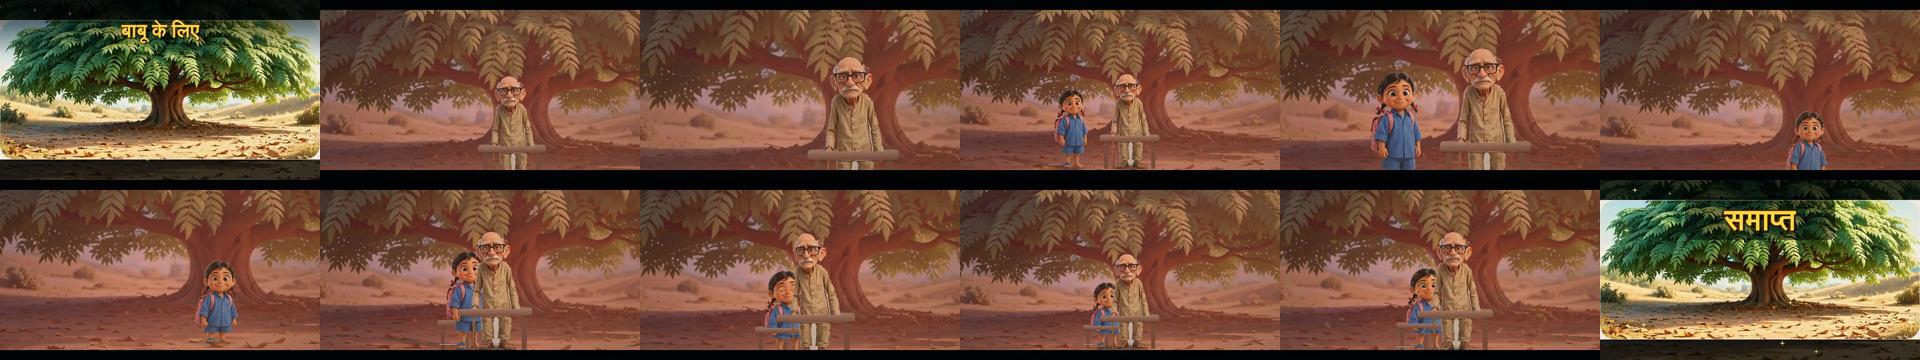
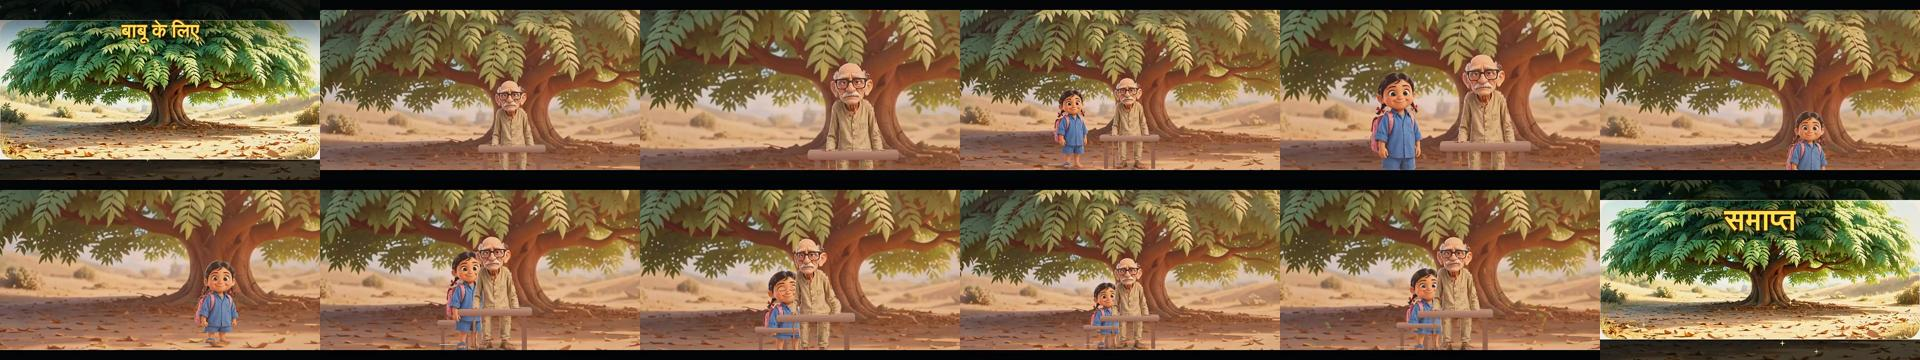
Build CI auto-triggers on this branch; fix look-change pass order so clothes change still fires G_SCREEN
ScriptParser: lookChangesFromActions runs BEFORE costumesFromActions in parseText, so the make-up entries carry
the character's original look and the later clothes-change entry still differs from the before-look. Fixes the
AppTest.v37ActivitiesFromTheWords failure.

LookDesigner: Ravana loses the 20-arm boost (keeps 10 heads); the extra arms were squeezing the row-of-heads
width in Doll3D. Fixes godsDemonsAndVanaras.

.github/workflows/build-apk.yml: push to ccr-a5fc4eef-d2p2nm also triggers the APK build, so every commit builds
automatically without a manual dispatch.

Claude-Session: https://claude.ai/code/session_01GbJz86dkxycvAjUzZun8bU

diff --git a/app/src/main/java/com/tarun/kahani/core/ScriptParser.java b/app/src/main/java/com/tarun/kahani/core/ScriptParser.java
@@ -287,6 +287,7 @@ public final class ScriptParser {
         LookDesigner.designAll(story);
         linkMounts(story);
         aidsFromActions(story);
+        lookChangesFromActions(story);
         costumesFromActions(story);
         return story;
     }
@@ -353,38 +354,6 @@ public final class ScriptParser {
                 if (nl.outfit == cur.outfit && nl.primary == cur.primary && nl.secondary == cur.secondary && nl.glasses == cur.glasses && nl.injury == cur.injury) continue;
                 Story.Costume k = new Story.Costume();
                 k.scene = sc.number; k.beat = bi; k.text = sent.trim(); k.look = nl;
-                c.costumes.add(k);
-            }
-        }
-        // v47: a second pass for look changes that are not clothes — make-up (bindi, lipstick, kajal, sindoor,
-        // mehndi, powder), a cap or a hat, a hairstyle (hair tied, combed, let down). Each is kept as its own
-        // Costume entry (with the current look, flags lifted) so a user picture can be tied to it via a
-        // dress|<character>|<words>|<file> or look|<character>|<words>|<file> manifest line.
-        for (Story.Scene sc : story.scenes) for (int bi = 0; bi < sc.beats.size(); bi++) {
-            Story.Beat b = sc.beats.get(bi);
-            if (b.type != Story.Beat.DIRECTION) continue;
-            for (String sent : b.text.split("[\u0964.!?]")) {
-                boolean makeup = Txt.has(sent, "\u092C\u093F\u0902\u0926\u0940", "bindi", "\u0932\u093F\u092A\u0938\u094D\u091F\u093F\u0915", "lipstick",
-                        "\u0915\u093E\u091C\u0932", "kajal", "\u0938\u093F\u0902\u0926\u0942\u0930", "sindoor",
-                        "\u092E\u0947\u0939\u0902\u0926\u0940", "\u092E\u0947\u0939\u0928\u094D\u0926\u0940", "mehndi", "\u092E\u0947\u0915\u0905\u092A", "makeup", "make-up",
-                        "\u092A\u093E\u0909\u0921\u0930", "powder", "eyeliner", "blush");
-                boolean headwear = Txt.has(sent, "\u091F\u094B\u092A\u0940", "\u092A\u0917\u0921\u093C\u0940", "cap", "hat", "turban", "\u0939\u0947\u0932\u094D\u092E\u0947\u091F", "helmet",
-                        "\u0938\u094D\u0915\u093E\u0930\u094D\u092B", "scarf", "\u0926\u0941\u092A\u091F\u094D\u091F\u093E", "dupatta", "\u092E\u0941\u0915\u0941\u091F", "crown");
-                boolean hair = Txt.has(sent, "\u092C\u093E\u0932 \u092C\u093E\u0902\u0927", "\u091A\u094B\u091F\u0940 \u092C\u093E\u0902\u0927", "\u091C\u0942\u0921\u093C\u093E \u092C\u0928\u093E",
-                        "\u0915\u0902\u0918\u0940", "\u092C\u093E\u0932 \u0916\u094B\u0932", "hair up", "ponytail", "comb", "combed", "braid", "braids", "pulled her hair back");
-                if (!makeup && !headwear && !hair) continue;
-                if (negated(sent)) continue;
-                List<Story.CharacterDef> who = mentions(story, sent);
-                if (who.size() != 1) continue;
-                Story.CharacterDef c = who.get(0);
-                if (c.look == null || !c.look.isHumanoid()) continue;
-                // dedupe: skip if an identical look-change text is already there
-                boolean dup = false;
-                for (Story.Costume k : c.costumes) if (k.text.equalsIgnoreCase(sent.trim())) { dup = true; break; }
-                if (dup) continue;
-                Look cur = c.costumes.isEmpty() ? c.look : c.costumes.get(c.costumes.size() - 1).look;
-                Story.Costume k = new Story.Costume();
-                k.scene = sc.number; k.beat = bi; k.text = sent.trim(); k.look = cur;
                 c.costumes.add(k);
             }
         }
@@ -1610,5 +1579,40 @@ public final class ScriptParser {
         if (Character.isLetterOrDigit(c) && !Txt.isDevanagari(c)) return true;
         // Devanagari letters (not punctuation like danda)
         return c >= 'ऀ' && c <= 'ॣ' && c != '।' && c != '॥';
+    }
+
+    static void lookChangesFromActions(Story story) {
+        // v47: a second pass for look changes that are not clothes — make-up (bindi, lipstick, kajal, sindoor,
+        // mehndi, powder), a cap or a hat, a hairstyle (hair tied, combed, let down). Each is kept as its own
+        // Costume entry (with the current look, flags lifted) so a user picture can be tied to it via a
+        // dress|<character>|<words>|<file> or look|<character>|<words>|<file> manifest line.
+        for (Story.Scene sc : story.scenes) for (int bi = 0; bi < sc.beats.size(); bi++) {
+            Story.Beat b = sc.beats.get(bi);
+            if (b.type != Story.Beat.DIRECTION) continue;
+            for (String sent : b.text.split("[\u0964.!?]")) {
+                boolean makeup = Txt.has(sent, "\u092C\u093F\u0902\u0926\u0940", "bindi", "\u0932\u093F\u092A\u0938\u094D\u091F\u093F\u0915", "lipstick",
+                        "\u0915\u093E\u091C\u0932", "kajal", "\u0938\u093F\u0902\u0926\u0942\u0930", "sindoor",
+                        "\u092E\u0947\u0939\u0902\u0926\u0940", "\u092E\u0947\u0939\u0928\u094D\u0926\u0940", "mehndi", "\u092E\u0947\u0915\u0905\u092A", "makeup", "make-up",
+                        "\u092A\u093E\u0909\u0921\u0930", "powder", "eyeliner", "blush");
+                boolean headwear = Txt.has(sent, "\u091F\u094B\u092A\u0940", "\u092A\u0917\u0921\u093C\u0940", "cap", "hat", "turban", "\u0939\u0947\u0932\u094D\u092E\u0947\u091F", "helmet",
+                        "\u0938\u094D\u0915\u093E\u0930\u094D\u092B", "scarf", "\u0926\u0941\u092A\u091F\u094D\u091F\u093E", "dupatta", "\u092E\u0941\u0915\u0941\u091F", "crown");
+                boolean hair = Txt.has(sent, "\u092C\u093E\u0932 \u092C\u093E\u0902\u0927", "\u091A\u094B\u091F\u0940 \u092C\u093E\u0902\u0927", "\u091C\u0942\u0921\u093C\u093E \u092C\u0928\u093E",
+                        "\u0915\u0902\u0918\u0940", "\u092C\u093E\u0932 \u0916\u094B\u0932", "hair up", "ponytail", "comb", "combed", "braid", "braids", "pulled her hair back");
+                if (!makeup && !headwear && !hair) continue;
+                if (negated(sent)) continue;
+                List<Story.CharacterDef> who = mentions(story, sent);
+                if (who.size() != 1) continue;
+                Story.CharacterDef c = who.get(0);
+                if (c.look == null || !c.look.isHumanoid()) continue;
+                // dedupe: skip if an identical look-change text is already there
+                boolean dup = false;
+                for (Story.Costume k : c.costumes) if (k.text.equalsIgnoreCase(sent.trim())) { dup = true; break; }
+                if (dup) continue;
+                Look cur = c.costumes.isEmpty() ? c.look : c.costumes.get(c.costumes.size() - 1).look;
+                Story.Costume k = new Story.Costume();
+                k.scene = sc.number; k.beat = bi; k.text = sent.trim(); k.look = cur;
+                c.costumes.add(k);
+            }
+        }
     }
 }

diff --git a/app/src/main/java/com/tarun/kahani/core/LookDesigner.java b/app/src/main/java/com/tarun/kahani/core/LookDesigner.java
@@ -821,7 +821,7 @@ public final class LookDesigner {
         boolean rakshasa = Txt.has(t, "राक्षस", "rakshas", "दानव", "danav", "दैत्य", "daitya", "असुर", "asur", "demon", "devil", "ogre");
         if (durga)    { if (l.arms  < 8)  l.arms  = 8;  if (l.mount < 0) l.mount = Look.SP_LION;     l.hero = true; }
         if (kali)     { if (l.arms  < 10) l.arms  = 10; if (l.mount < 0) l.mount = Look.SP_TIGER;    l.hero = true; }
-        if (ravana)   { if (l.heads < 10) l.heads = 10; if (l.arms  < 20) l.arms  = 20;              l.hero = false; }
+        if (ravana)   { if (l.heads < 10) l.heads = 10;                                              l.hero = false; }
         if (brahma)   { if (l.heads < 4)  l.heads = 4;  if (l.arms  < 4)  l.arms  = 4;               l.hero = true; }
         if (ganesha)  { if (l.arms  < 4)  l.arms  = 4;  if (l.mount < 0) l.mount = Look.SP_MOUSE;    l.hero = true; }
         if (shiva)    { if (l.arms  < 4)  l.arms  = 4;  if (l.mount < 0) l.mount = Look.SP_COW;      l.hero = true; }
